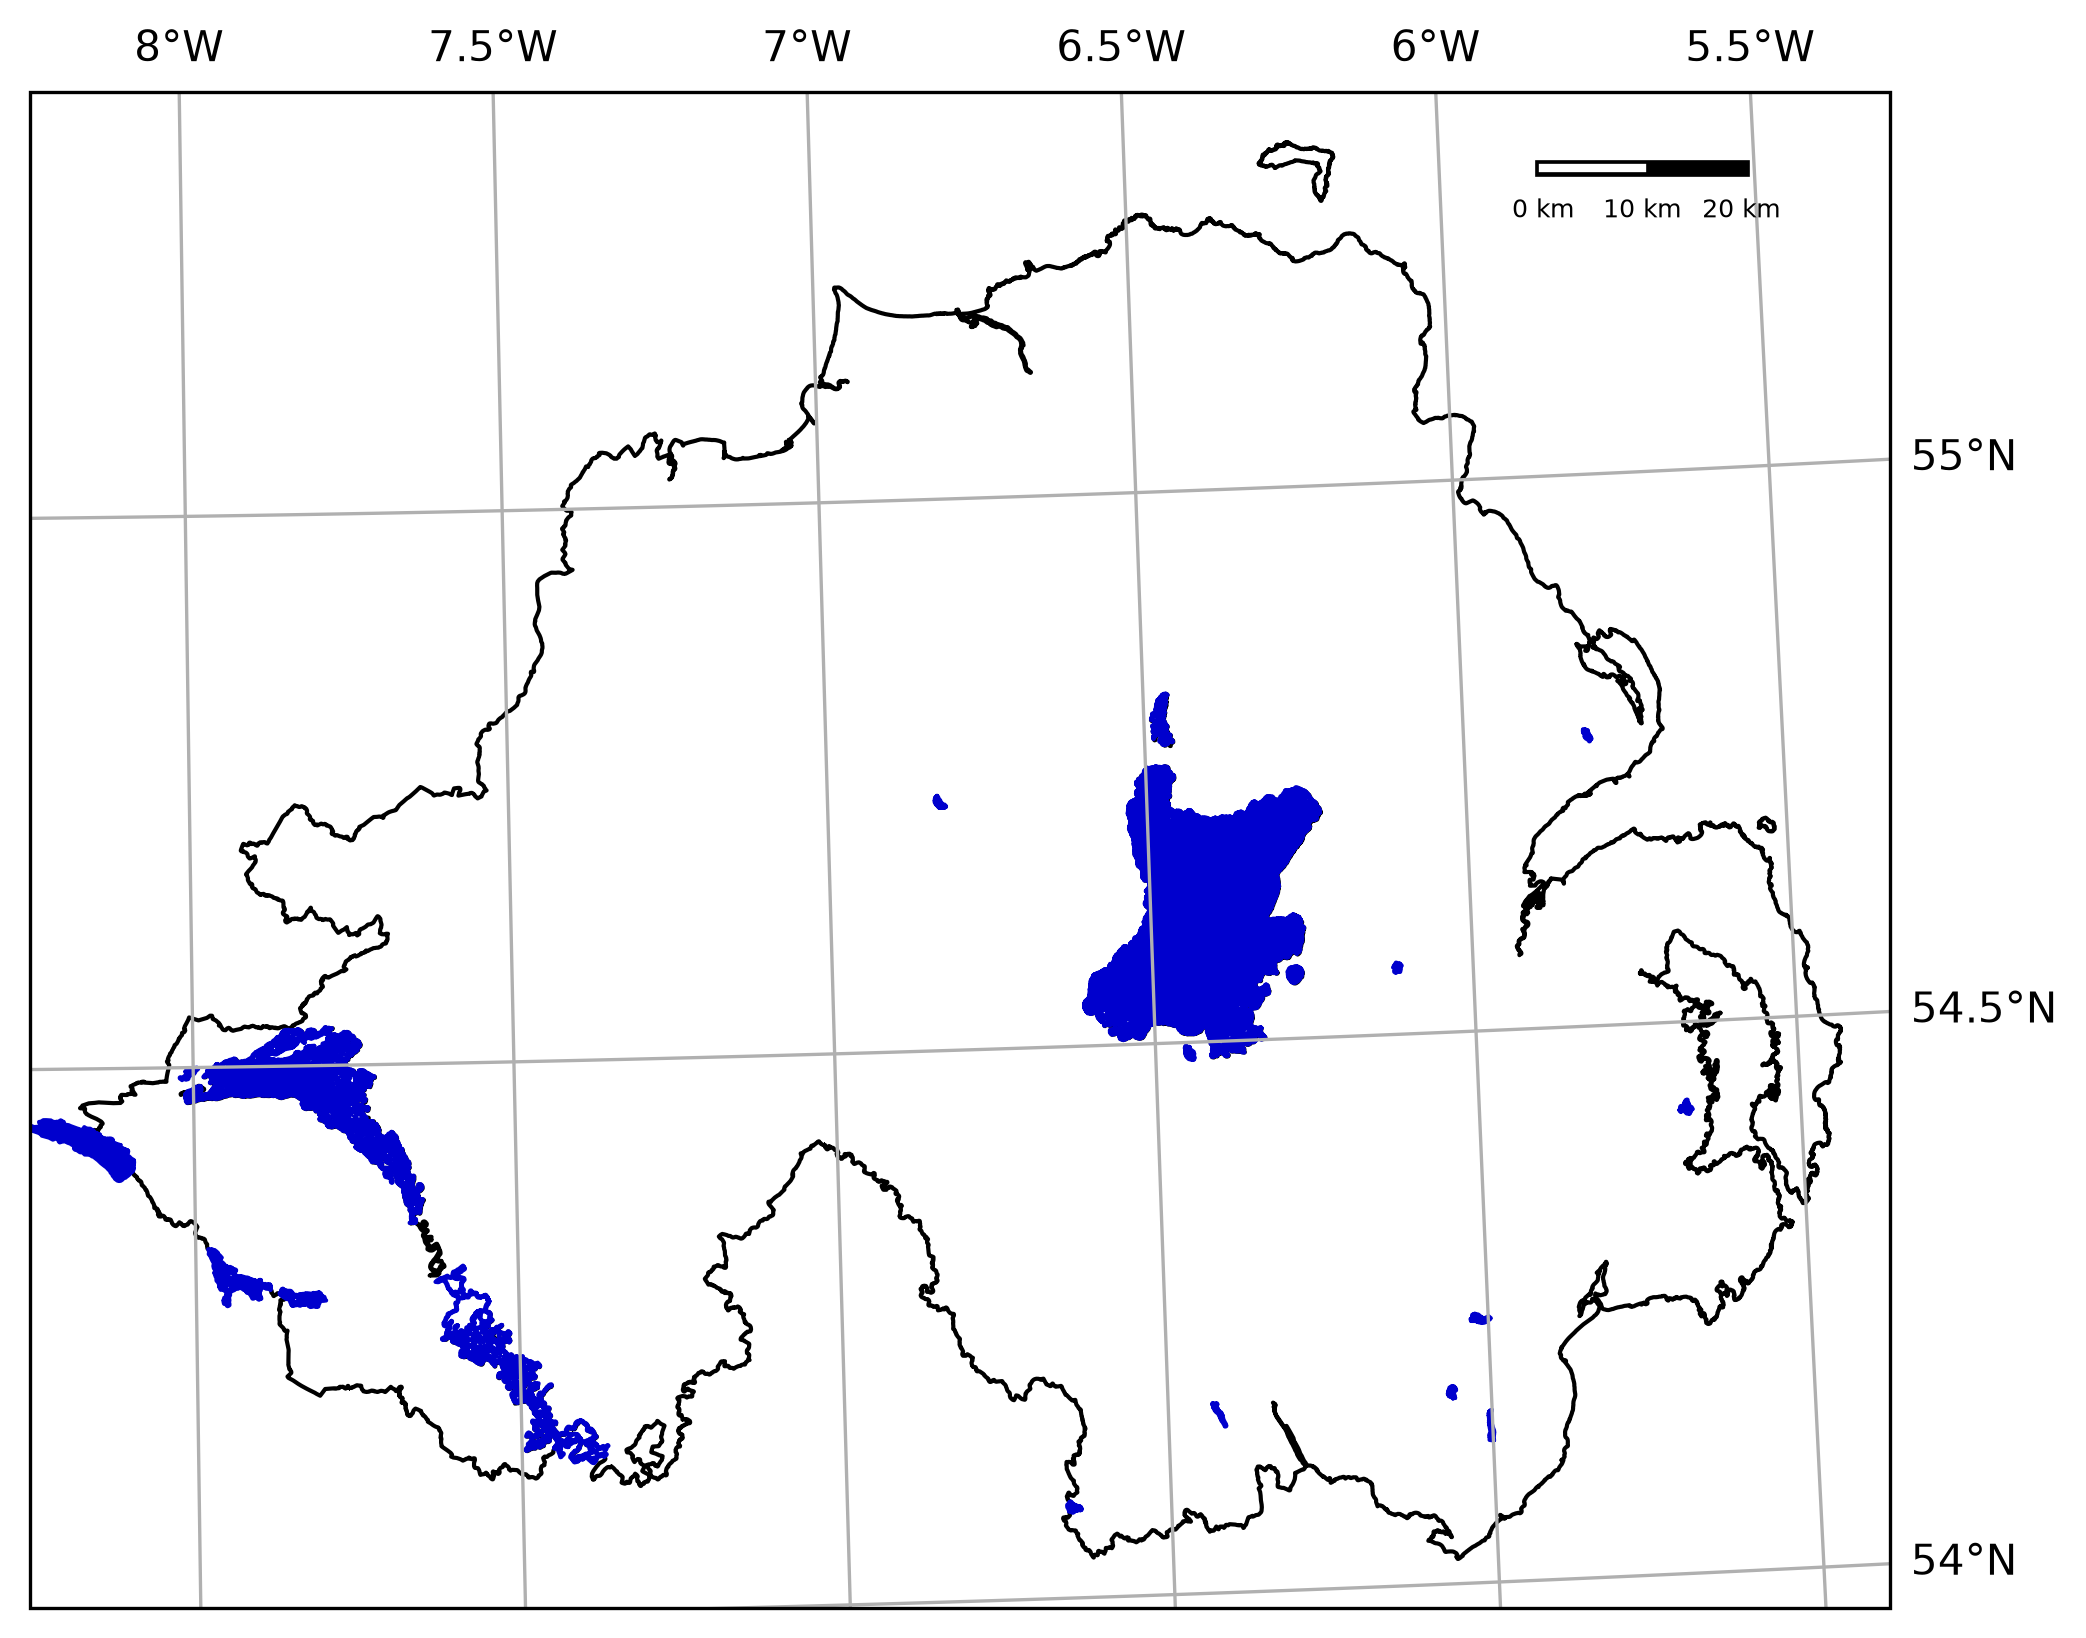
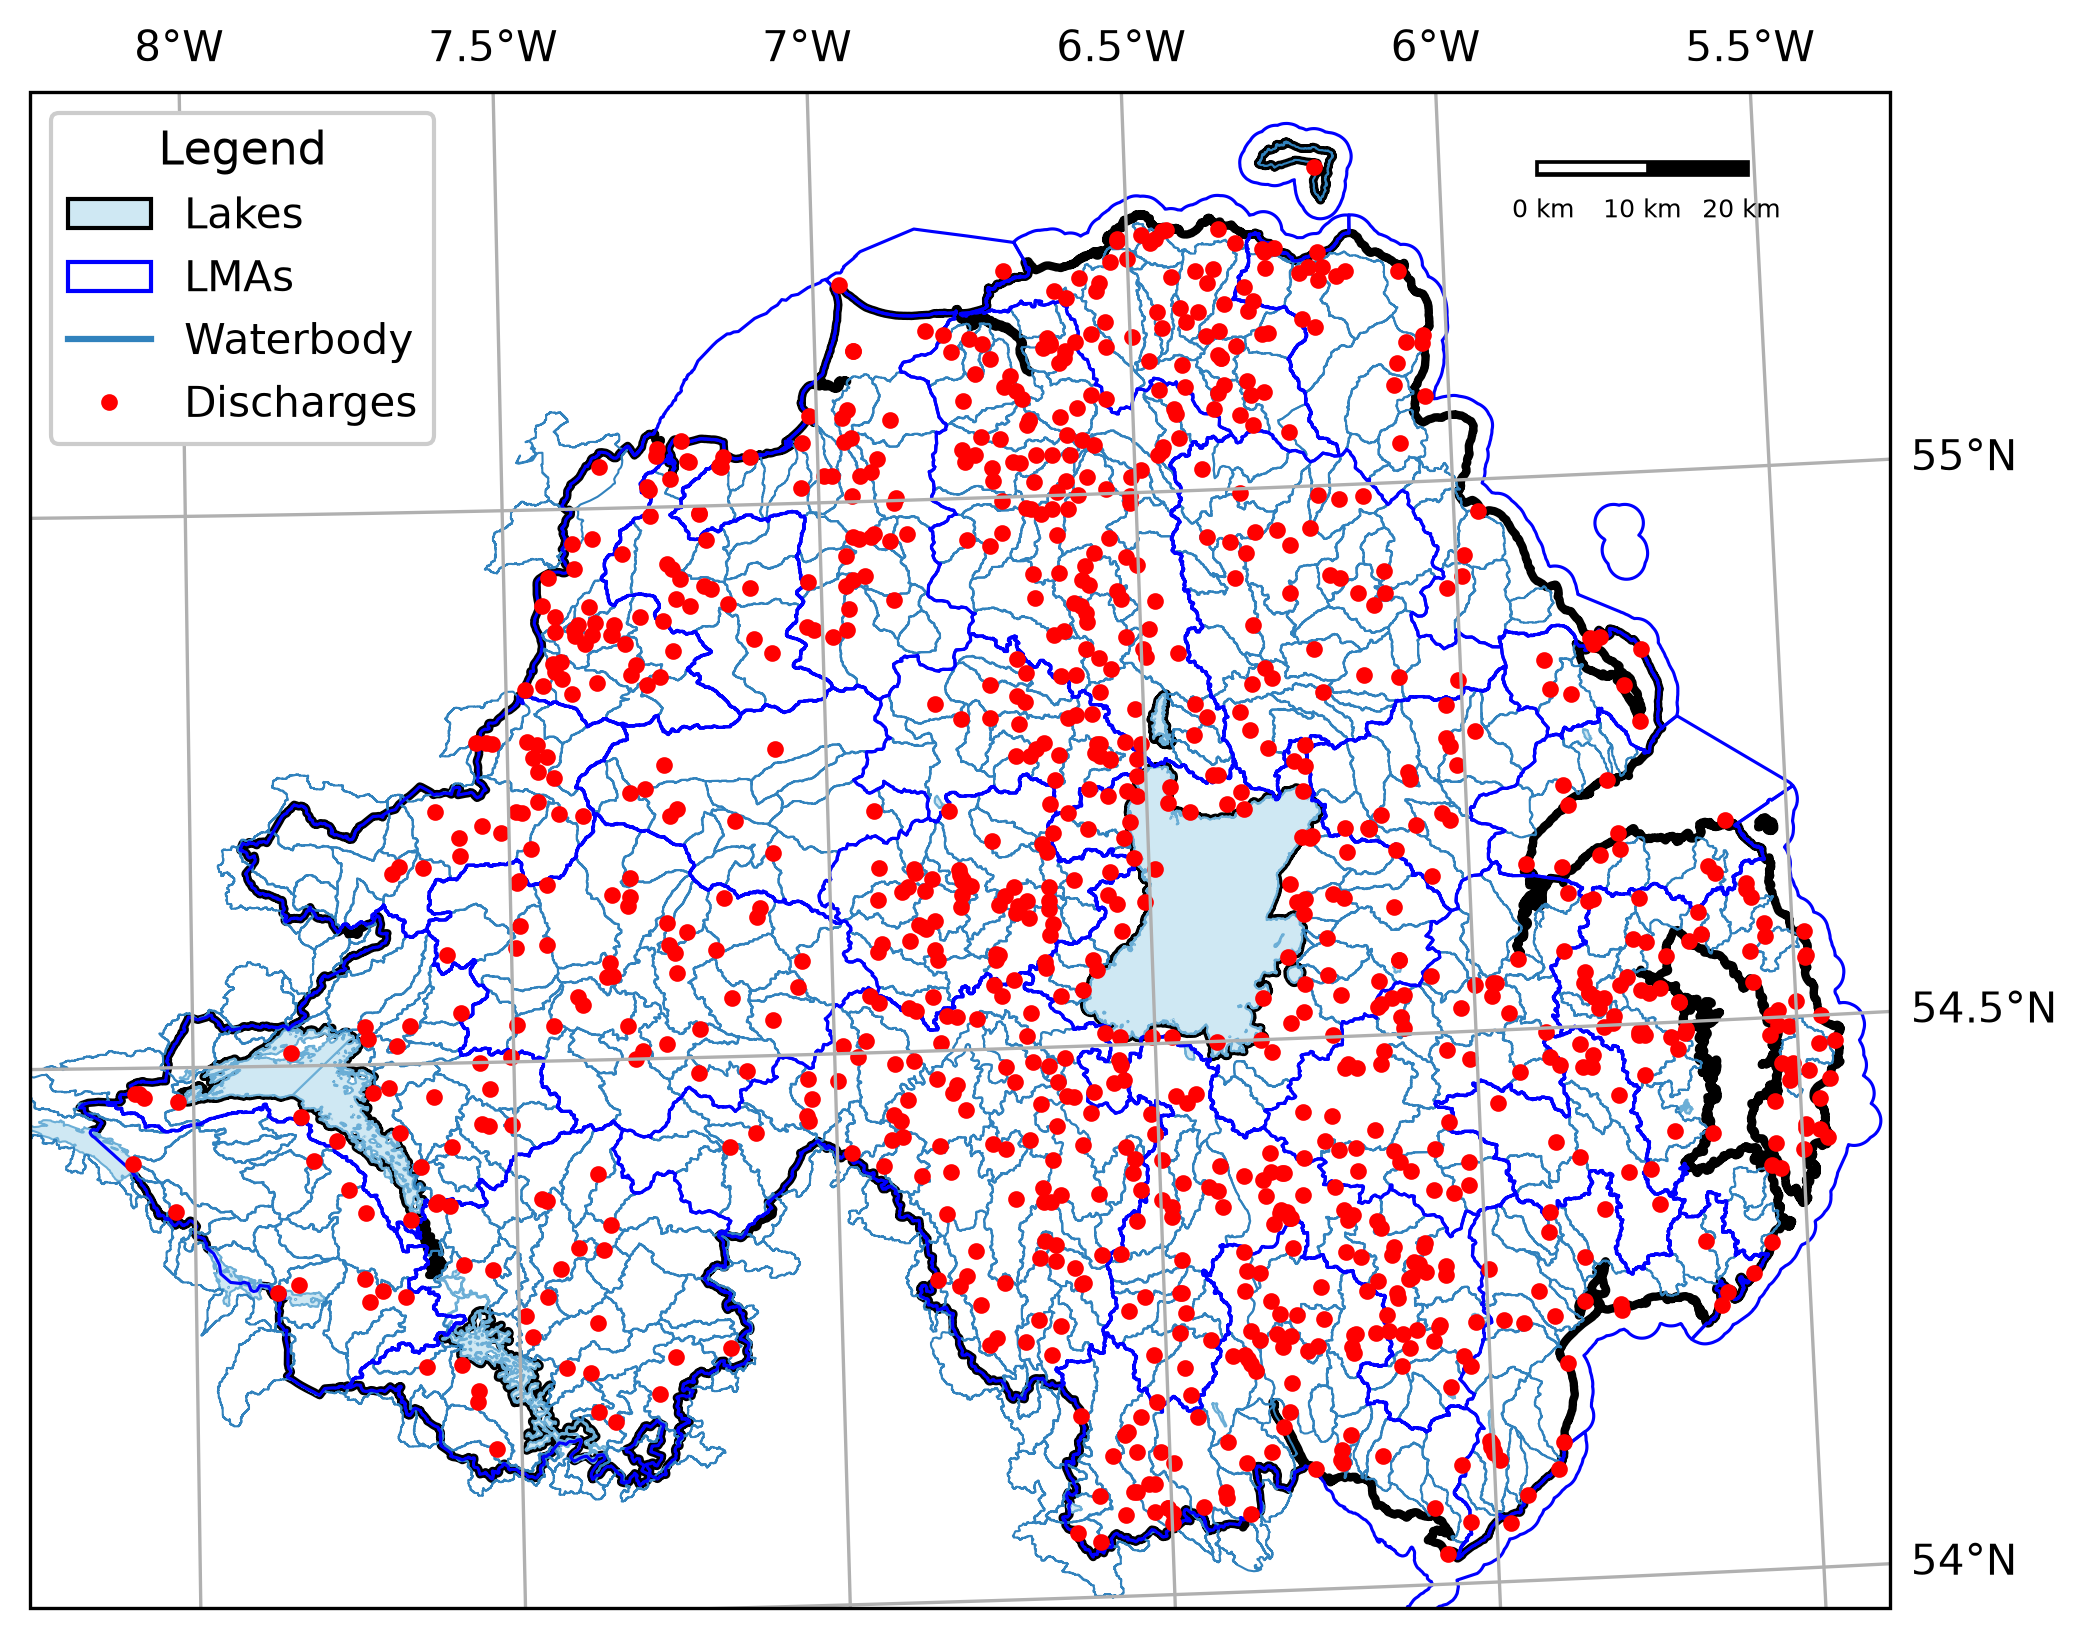
Amend Lough Neagh Analysis Script
Amend Lough Neagh Analysis Script to plot the project analysis features and add features to the legend.

Changed region(s): [[0.0, 0.0623, 0.9036, 0.9652], [0.0312, 0.0623, 0.2181, 0.2802]]

diff --git a/Scripts/Lough_Neagh_Analysis.py b/Scripts/Lough_Neagh_Analysis.py
@@ -1,4 +1,5 @@
-# Imports for geospatial data, mapping, and plotting
+# IMPORTS FOR GEOSPATIAL DATA, MAPPING, AND PLOTTING
+
 import os
 import geopandas as gpd
 import matplotlib.pyplot as plt
@@ -7,7 +8,8 @@ import cartopy.crs as ccrs
 import matplotlib.patches as mpatches
 import matplotlib.lines as mlines
 
-# Helper functions for legend handles and scale bar
+# HELPER FUNCTIONS FOR LEGEND HANDLES AND SCALE BAR
+
 def generate_handles(labels, colors, edge='k', alpha=1):
     """
     Generate matplotlib patch handles to create a legend of each of the features in the map.
@@ -75,18 +77,25 @@ def scale_bar(ax, length=20, location=(0.92, 0.95)):
     return ax
 
 
-# Load outline and water shapefiles
+# LOAD OUTLINE AND WATER SHAPEFILES
+
 outline = gpd.read_file('../Data/NI_outline.shp')
 water = gpd.read_file('../Data/Water.shp')
-lmas = gpd.read_file('../Data/LMAs/LMAs.shp')
-discharges = gpd.read_file('../Data/treated_discharges/treated_discharges.shp')
-waterbodies = gpd.read_file('../Data//WFD_River_Water_Bodies_2016/WFD_River_Water_Bodies_2016.shp')
+lmas = gpd.read_file('../Data/LMAs.shp')
+discharges = gpd.read_file('../Data/treated_discharges.shp')
+waterbodies = gpd.read_file('../Data/WFD_River_Water_Bodies_2016.shp')
 
 
-# Set Up Map Projection and Figure
+# SET UP MAP PROJECTION AND FIGURE
+
 
 # UTM Zone 29 (NI)
 ni_utm = ccrs.UTM(29)  
+
+# Reproject project layers to match outline CRS
+lmas = lmas.to_crs(outline.crs)
+discharges = discharges.to_crs(outline.crs)
+waterbodies = waterbodies.to_crs(outline.crs)
 
 # Create a figure size 8x8
 fig = plt.figure(figsize=(8, 8))
@@ -95,35 +104,123 @@ fig = plt.figure(figsize=(8, 8))
 ax = plt.axes(projection=ni_utm)  
 
 # Add NI outline
-outline_feature = ShapelyFeature(outline['geometry'], ni_utm, edgecolor='k', facecolor='w')
+outline_feature = ShapelyFeature(
+    outline['geometry'],
+    ni_utm,
+    edgecolor='k',   # black boundary
+    facecolor='none',# transparent fill (recommended)
+    linewidth=1.5      # thicker outline
+)
 
 # Add all features to the map
-ax.add_feature(outline_feature) # add the features we've created to the map.
+ax.add_feature(outline_feature) # add the features to the map.
 
 # Map extent using outline bounds
 xmin, ymin, xmax, ymax = outline.total_bounds
 ax.set_extent([xmin-5000, xmax+5000, ymin-5000, ymax+5000], crs=ni_utm)  
 
-# Add the water features and set CRS, colours and outline width
-water_feat = ShapelyFeature(water['geometry'], 
-                            ccrs.CRS(water.crs), 
-                            edgecolor='mediumblue',
-                            facecolor='mediumblue', 
-                            linewidth=1) 
-ax.add_feature(water_feat) 
 
-# Create legend
+# Add the lakes and set CRS, colours and outline width
+water_feat = ShapelyFeature(
+    water['geometry'],
+    ccrs.CRS(water.crs),
+    edgecolor='#6baed6',   # lighter outline
+    facecolor='#cfe8f3',   # Very light fill
+    linewidth=0.5
+)
+ax.add_feature(water_feat)
+
+lake_handle = generate_handles(['Lakes'], ['#cfe8f3'])
+
+# ADD ALL PROJECT ANALYSIS LAYERS
+
+# Add Local Management Areas, Treated Effluent Discharges and Waterbodies features
+
+
+# Plot discharges 
+discharge_handle = ax.plot(
+    discharges.geometry.x,
+    discharges.geometry.y,
+    'o',
+    color='red',
+    markersize=3,
+    transform=ccrs.CRS(discharges.crs)
+)
+
+# Plot waterbodies 
+waterbody_feat = ShapelyFeature(
+    waterbodies['geometry'],
+    ccrs.CRS(waterbodies.crs),
+    edgecolor='#3182bd',   # medium blue
+    facecolor='none',
+    linewidth=0.5
+)
+ax.add_feature(waterbody_feat)
+
+waterbody_handle = [mlines.Line2D([], [], color='#3182bd')]
+
+# Plot LMAs 
+lma_feat = ShapelyFeature(
+    lmas['geometry'],
+    ni_utm,
+    edgecolor='blue',   # standard blue
+    facecolor='none',
+    linewidth=0.75
+)
+ax.add_feature(lma_feat)
+
+
+# CREATE LEGEND
+
 water_handle = generate_handles(['Lakes'], ['mediumblue'])
 
-# Add gridlines
-gridlines = ax.gridlines(draw_labels=True, # draw  labels for the grid lines
-                         xlocs=[-8, -7.5, -7, -6.5, -6, -5.5], # add longitude lines at 0.5 deg intervals
-                         ylocs=[54, 54.5, 55, 55.5]) # add latitude lines at 0.5 deg intervals
+lma_handle = [mpatches.Patch(
+    facecolor='none',
+    edgecolor='blue',       # matches LMAs on map
+    label='LMAs'
+)]
+
+waterbody_handle = [mlines.Line2D(
+    [], [], 
+    color='#3182bd',        # matches waterbody lines
+    label='Waterbody'
+)]
+
+discharge_handle = [mlines.Line2D(
+    [], [], 
+    color='red', 
+    marker='o', 
+    linestyle='None', 
+    markersize=3,
+    label='Discharges'
+)]
+
+handles = lake_handle + lma_handle + waterbody_handle + discharge_handle
+labels = ['Lakes', 'LMAs', 'Waterbody', 'Discharges']
+
+ax.legend(
+    handles, labels,
+    title='Legend',
+    title_fontsize=11,
+    fontsize=10,
+    loc='upper left',
+    frameon=True,
+    framealpha=1
+)
+
+
+# ADD GRIDLINES AND SCALE BAR
+
+gridlines = ax.gridlines(draw_labels=True, # Draw  labels for the grid lines
+xlocs=[-8, -7.5, -7, -6.5, -6, -5.5], # add longitude lines at 0.5 deg intervals
+ylocs=[54, 54.5, 55, 55.5]) # add latitude lines at 0.5 deg intervals
 gridlines.left_labels = False # turn off the left-side labels
 gridlines.bottom_labels = False # turn off the bottom labels
 
 # Add a scale bar to the axis
 scale_bar(ax)
 
-# save fig as lough_neagh_map.png, crop to the axis ('tight') with dpi of 300
+# SAVE LOUGH NEAGH ANALYSIS FIGURE
+
+# Save figure as lough_neagh_map.png, crop to the axis ('tight') with dpi of 300
 fig.savefig('map.png', bbox_inches='tight', dpi=300)